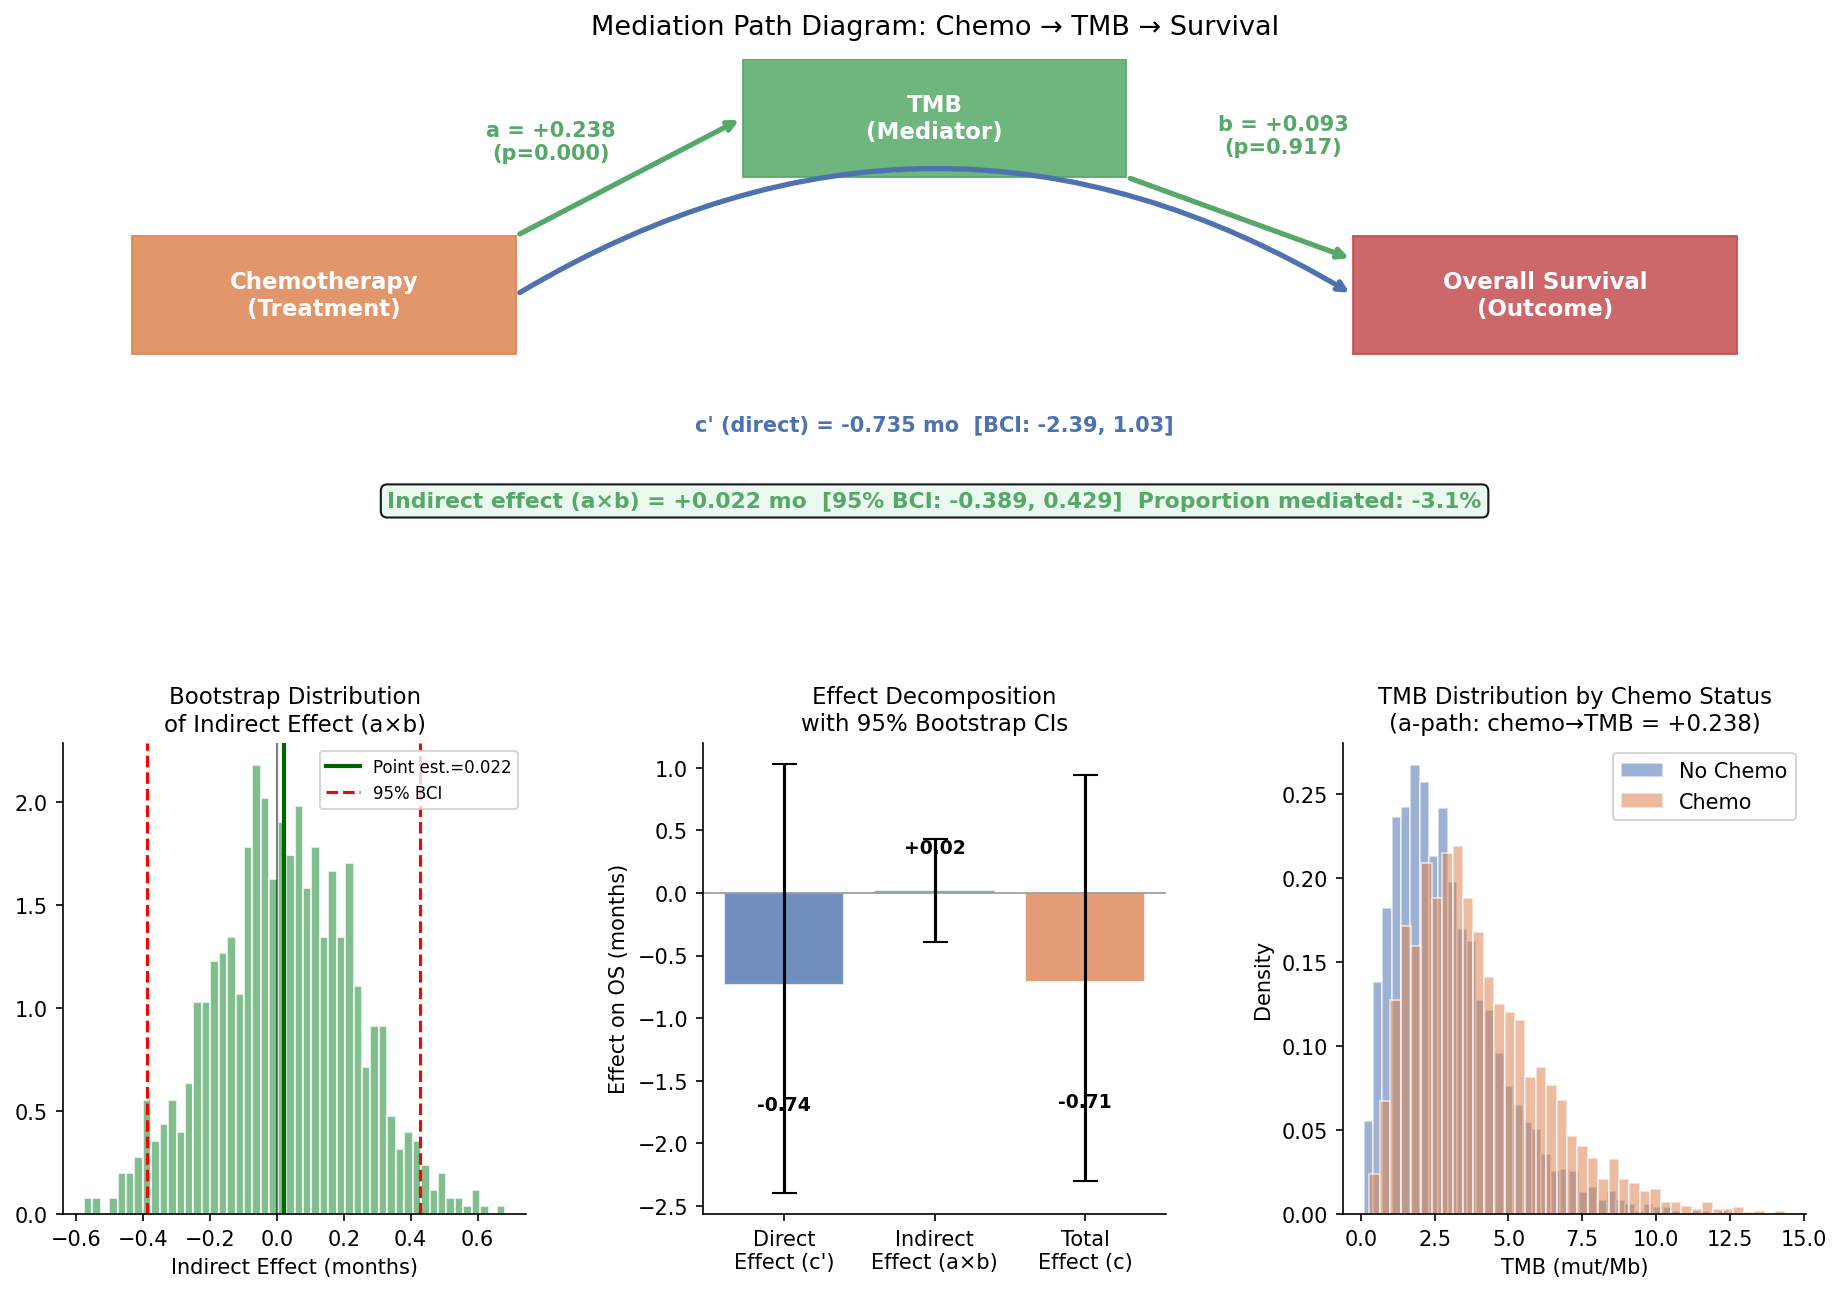
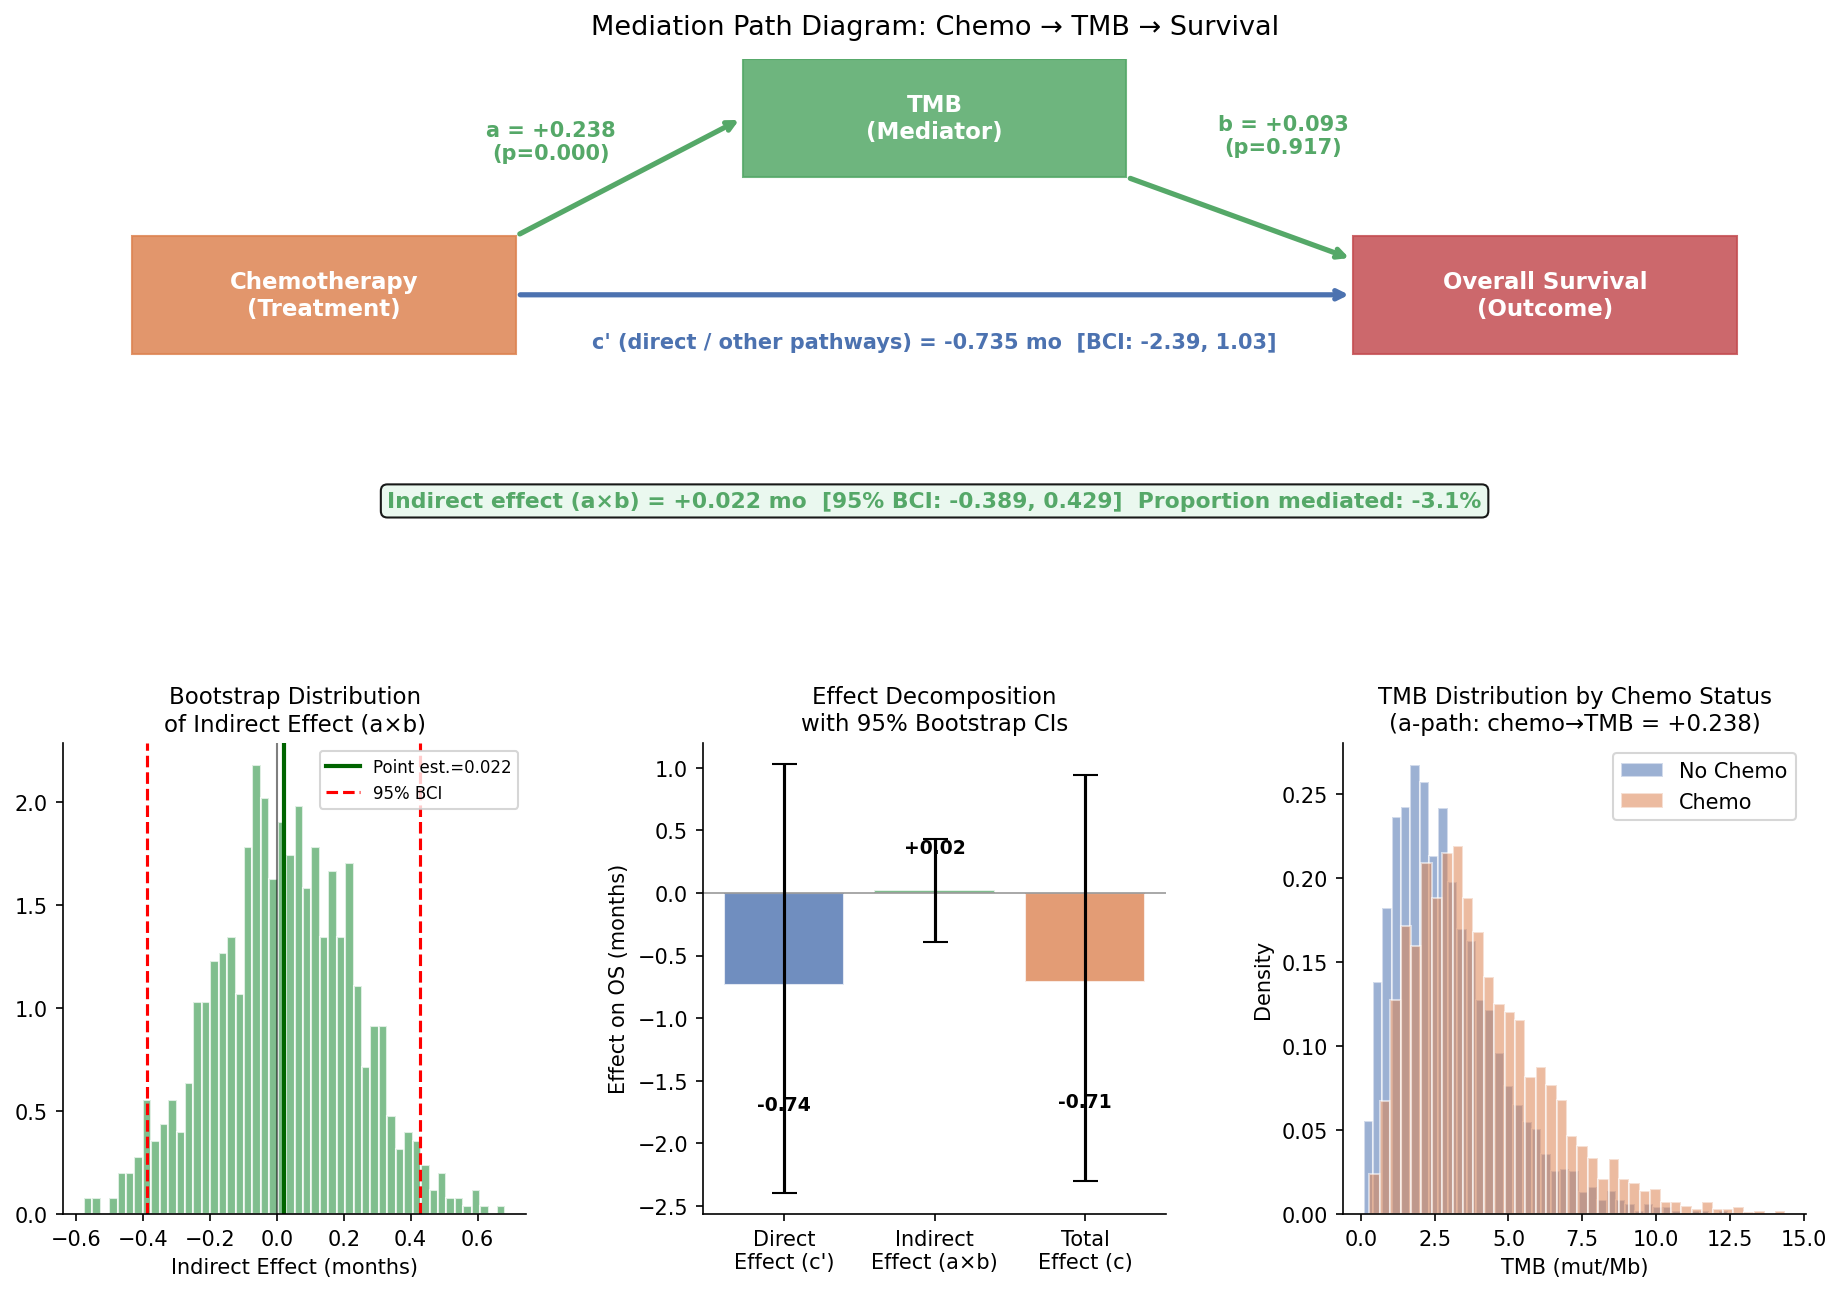
NB04 + README: straight c-path arrow, subgroup mediation figure added to README At a Glance

diff --git a/README.md b/README.md
@@ -20,7 +20,20 @@ Kaplan-Meier survival curves stratified by cancer type and chemotherapy status. 
 
 ---
 
-### Step 2 — Estimate who benefits (and by how much)
+### Step 2 — Peel back the average: subgroup mediation reveals who actually benefits
+
+![Subgroup mediation: Age Q3 path diagram and full comparison](results/figures/04_subgroup_mediation.png)
+
+The most revealing figure in the repo. **Top**: a mediation path diagram for the Age Q3 subgroup (patients aged ~57–70), showing the three causal paths — chemo → TMB (a-path), TMB → survival (b-path), and the direct/other-pathway effect (c′). **Bottom**: all four subgroups side by side.
+
+Three things stand out:
+- **Full cohort total effect is slightly negative** — not because chemo harms, but because the most advanced patients (who get more chemo) also have worse baseline prognosis. This is **indication bias** in plain sight.
+- **Age Q3 total effect flips to +2.17 months (p = 0.13)** — near-significant with a confidence interval almost entirely positive. The causal forest in Step 3 independently identified this same subgroup as high-benefit, so this is not data dredging.
+- **The a-path (chemo → TMB) is significant in every subgroup** (marked `**`), but the b-path (TMB → survival) is not — the TMB pathway is broken. Chemo's benefit in Age Q3 operates through other mechanisms (direct cytotoxicity, immune activation), not via TMB elevation. The straight blue arrow represents *any* pathway, not a specific one.
+
+---
+
+### Step 3 — Personalised effect estimates for every patient
 
 ![CATE distribution and subgroup heterogeneity](results/figures/07_cate_distribution.png)
 